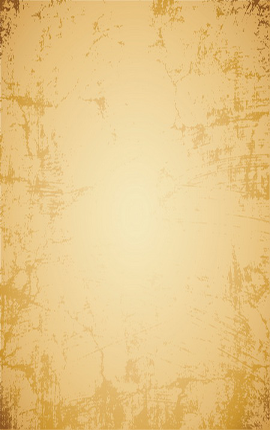
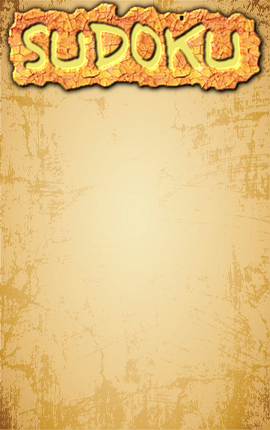
судоку додизайн

Changed region(s): [[0.0, 0.0, 1.0, 0.2419]]

diff --git a/src/main/webapp/js/Tab/Sudoku.js b/src/main/webapp/js/Tab/Sudoku.js
@@ -2,13 +2,7 @@ var fail = 'red';
 var good = 'green';
 var locked = 'white';
 
-function sudokuContinue() {
-	tabGoTo('SudokuGame.html');
-}
-
-var level = 2;
 function sudokuNewGame(level) {
-	this.level = level;
 	$.post('SudokuNewGame.html', {
 		level : level
 	}, function(resp) {
@@ -49,22 +43,29 @@ function boxClick(elem) {
 		this.box = elem;
 		var position = $(elem).position();
 		$('#sudoku #value').css({
-			marginTop : position.top + 15,
-			marginLeft : position.left + 15
+			marginTop : position.top + 140,
+			marginLeft : position.left + 35
 		}).show();
 	}
 }
 
-function boxOver(elem) {
-	if (boxHightlight == false) {
-		boxHighlight(elem);
-	}
-}
-
-function fieldOut() {
-	if (boxHightlight == false) {
-		boxHighlightClear();
-	}
+function valueClick(value) {
+	$.post('SudokuPut.html', {
+		id : box.id,
+		value : value
+	}, function(resp) {
+		if (resp == true) {
+			if (value == 0) {
+				$(box).text('');
+			} else {
+				$(box).text(value);
+			}
+			getFailed();
+		}
+	});
+	$('#sudoku #value').hide();
+	boxHighlightClear();
+	boxHightlight = false;
 }
 
 var boxHightlight = false;
@@ -88,25 +89,6 @@ function boxHighlightClear() {
 	});
 }
 
-function valueClick(value) {
-	$.post('SudokuPut.html', {
-		id : box.id,
-		value : value
-	}, function(resp) {
-		if (resp == true) {
-			if (value == 0) {
-				$(box).text('');
-			} else {
-				$(box).text(value);
-			}
-			getFailed();
-		}
-	});
-	$('#sudoku #value').hide();
-	boxHighlightClear();
-	boxHightlight = false;
-}
-
 function valueOver(elem) {
 	$(elem).css({
 		color : 'red'
@@ -116,5 +98,29 @@ function valueOver(elem) {
 function valueOut(elem) {
 	$(elem).css({
 		color : ''
+	});
+}
+
+function boxOver(elem) {
+	if (boxHightlight == false) {
+		boxHighlight(elem);
+	}
+}
+
+function fieldOut() {
+	if (boxHightlight == false) {
+		boxHighlightClear();
+	}
+}
+
+function buttonOver(elem) {
+	$(elem).css({
+		backgroundImage : 'url("images/Tab/sudoku/smallButton2.png")'
+	});
+}
+
+function buttonOut(elem) {
+	$(elem).css({
+		backgroundImage : 'url("images/Tab/sudoku/smallButton1.png")'
 	});
 }

diff --git a/src/main/webapp/css/Tab/Sudoku.css b/src/main/webapp/css/Tab/Sudoku.css
@@ -1,20 +1,25 @@
 #sudoku {
 	background-image: url('../../images/Tab/sudoku/background.png');
 	background-repeat: no-repeat;
+	font-weight: bold;
+}
+
+#sudoku #level {
+	position: absolute;
+	margin: 100px 100px;
 }
 
 #sudoku #value {
+	display: none;
 	border: solid 2px;
 	border-color: black;
-	background-color: white;
-	width: 40px;
-	height: 70px;
+	background-color: khaki;
+	height: 80px;
+	width: 50px;
 	cursor: pointer;
-	position: absolute;
 	z-index: 2;
-	display: none;
-	font-size: 10px;
-	font-weight: bold;
+	font-size: 12px;
+	position: absolute;
 }
 
 #sudoku #field {
@@ -22,22 +27,15 @@
 	background-repeat: no-repeat;
 	height: 243px;
 	width: 243px;
-	margin: 15px 15px;
-}
-
-#sudoku #field tr {
-	height: 27px;
-	width: 243px;
+	position: absolute;
+	margin: 120px 14px;
 }
 
 #sudoku #field td {
-	font-weight: bold;
 	font-size: 16px;
-	color: black;
 	cursor: pointer;
-	height: 25px;
-	width: 25px;
-	border: solid none 1px;
+	height: 27px;
+	width: 27px;
 }
 
 #sudoku #field div {
@@ -45,10 +43,24 @@
 	background-repeat: no-repeat;
 	text-align: center;
 	vertical-align: middle;
-    height: 25px;
-    width: 25px;
-    margin: 1px 1px;
+	height: 25px;
+	width: 25px;
+	margin: 1px 1px;
 }
 
-.area0,.area2,.area4,.area6,.area8 {
+#sudoku .levelButton {
+	background-image: url('../../images/Tab/sudoku/smallButton1.png');
+	background-repeat: no-repeat;
+	height: 29px;
+	width: 66px;
+	font-size: 14px;
+	text-align: center;
+	vertical-align: middle;
+	color: maroon;
+	cursor: pointer;
+}
+
+#sudoku #levelsBar {
+	position: absolute;
+	margin: 380px 30px;
 }

diff --git a/src/main/webapp/css/Tab/Tab.css b/src/main/webapp/css/Tab/Tab.css
@@ -6,6 +6,11 @@
 	font-family: Tahoma;
 	float: left;
 	margin-top: 50px;
+	-moz-user-select: -moz-none;
+	-o-user-select: none;
+	-khtml-user-select: none;
+	-webkit-user-select: none;
+	user-select: none;
 }
 
 #tab .display {

diff --git a/src/main/webapp/css/XO/paperList.css b/src/main/webapp/css/XO/paperList.css
@@ -7,6 +7,11 @@
 	font-size: 16px;
 	font-weight: bold;
 	color: #5B2FCE;
+	-moz-user-select: -moz-none;
+	-o-user-select: none;
+	-khtml-user-select: none;
+	-webkit-user-select: none;
+	user-select: none;
 }
 
 @font-face {

diff --git a/src/main/webapp/js/Tab/Tab.js b/src/main/webapp/js/Tab/Tab.js
@@ -1,5 +1,5 @@
 var chatLink = 'Chat.html';
-var sudokuLink = 'SudokuMenu.html';
+var sudokuLink = 'Sudoku.html';
 var homeLink = 'TabHome.html';
 var chatInterval;
 

diff --git a/src/main/java/epam/ph/sg/controllers/SudokuController.java b/src/main/java/epam/ph/sg/controllers/SudokuController.java
@@ -21,12 +21,16 @@ import epam.ph.sg.tab.sudoku.SudokuGame;
 public class SudokuController {
 	private static Logger log = Logger.getLogger(SudokuController.class);
 
-	@RequestMapping("/SudokuMenu.html")
+	@RequestMapping("/Sudoku.html")
 	public String menu(HttpServletRequest request) {
 		User user = (User) request.getSession().getAttribute("user");
 		log.info(request.getRequestURI() + " request received. User id="
 				+ user.getId());
-		return "Tab/SudokuMenu";
+		if (request.getSession().getAttribute("sudoku") == null) {
+			SudokuGame game = SudokuGame.getGame(1);
+			request.getSession().setAttribute("sudoku", game);
+		}
+		return "Tab/Sudoku";
 	}
 
 	@RequestMapping("/SudokuNewGame.html")
@@ -37,18 +41,7 @@ public class SudokuController {
 				+ user.getId() + ". Level: " + level);
 		SudokuGame game = SudokuGame.getGame(level);
 		request.getSession().setAttribute("sudoku", game);
-		return "redirect:/SudokuGame.html";
-	}
-
-	@RequestMapping("/SudokuGame.html")
-	public String game(HttpServletRequest request) {
-		User user = (User) request.getSession().getAttribute("user");
-		log.info(request.getRequestURI() + " request received. User id="
-				+ user.getId());
-		if (request.getSession().getAttribute("sudoku") == null) {
-			return "redirect:/Sudoku.html";
-		}
-		return "Tab/SudokuGame";
+		return "Tab/Sudoku";
 	}
 
 	@RequestMapping("/SudokuPut.html")

diff --git a/src/main/java/epam/ph/sg/tab/sudoku/SudokuGame.java b/src/main/java/epam/ph/sg/tab/sudoku/SudokuGame.java
@@ -10,8 +10,10 @@ public class SudokuGame {
 	private int[][] staticValues;
 	private SudokuField sudokuField = new SudokuField();
 	private SudokuAI sudokuAI = new SudokuAI(sudokuField);
+	private int level;
 
-	public SudokuGame(int[][] values) {
+	public SudokuGame(int level, int[][] values) {
+		this.level = level;
 		this.staticValues = values;
 		for (int i = 0; i < 9; i++) {
 			for (int j = 0; j < 9; j++) {
@@ -50,6 +52,10 @@ public class SudokuGame {
 	public SudokuField getSudokuField() {
 		return sudokuField;
 	}
+	
+	public int getLevel() {
+		return level;
+	}
 
 	public static SudokuGame getGame(int level) {
 		if (level < 1) {
@@ -57,6 +63,6 @@ public class SudokuGame {
 		} else if (level > 3) {
 			level = 3;
 		}
-		return new SudokuGame(SudokuMapCreator.prepare(level));
+		return new SudokuGame(level, SudokuMapCreator.prepare(level));
 	}
 }
